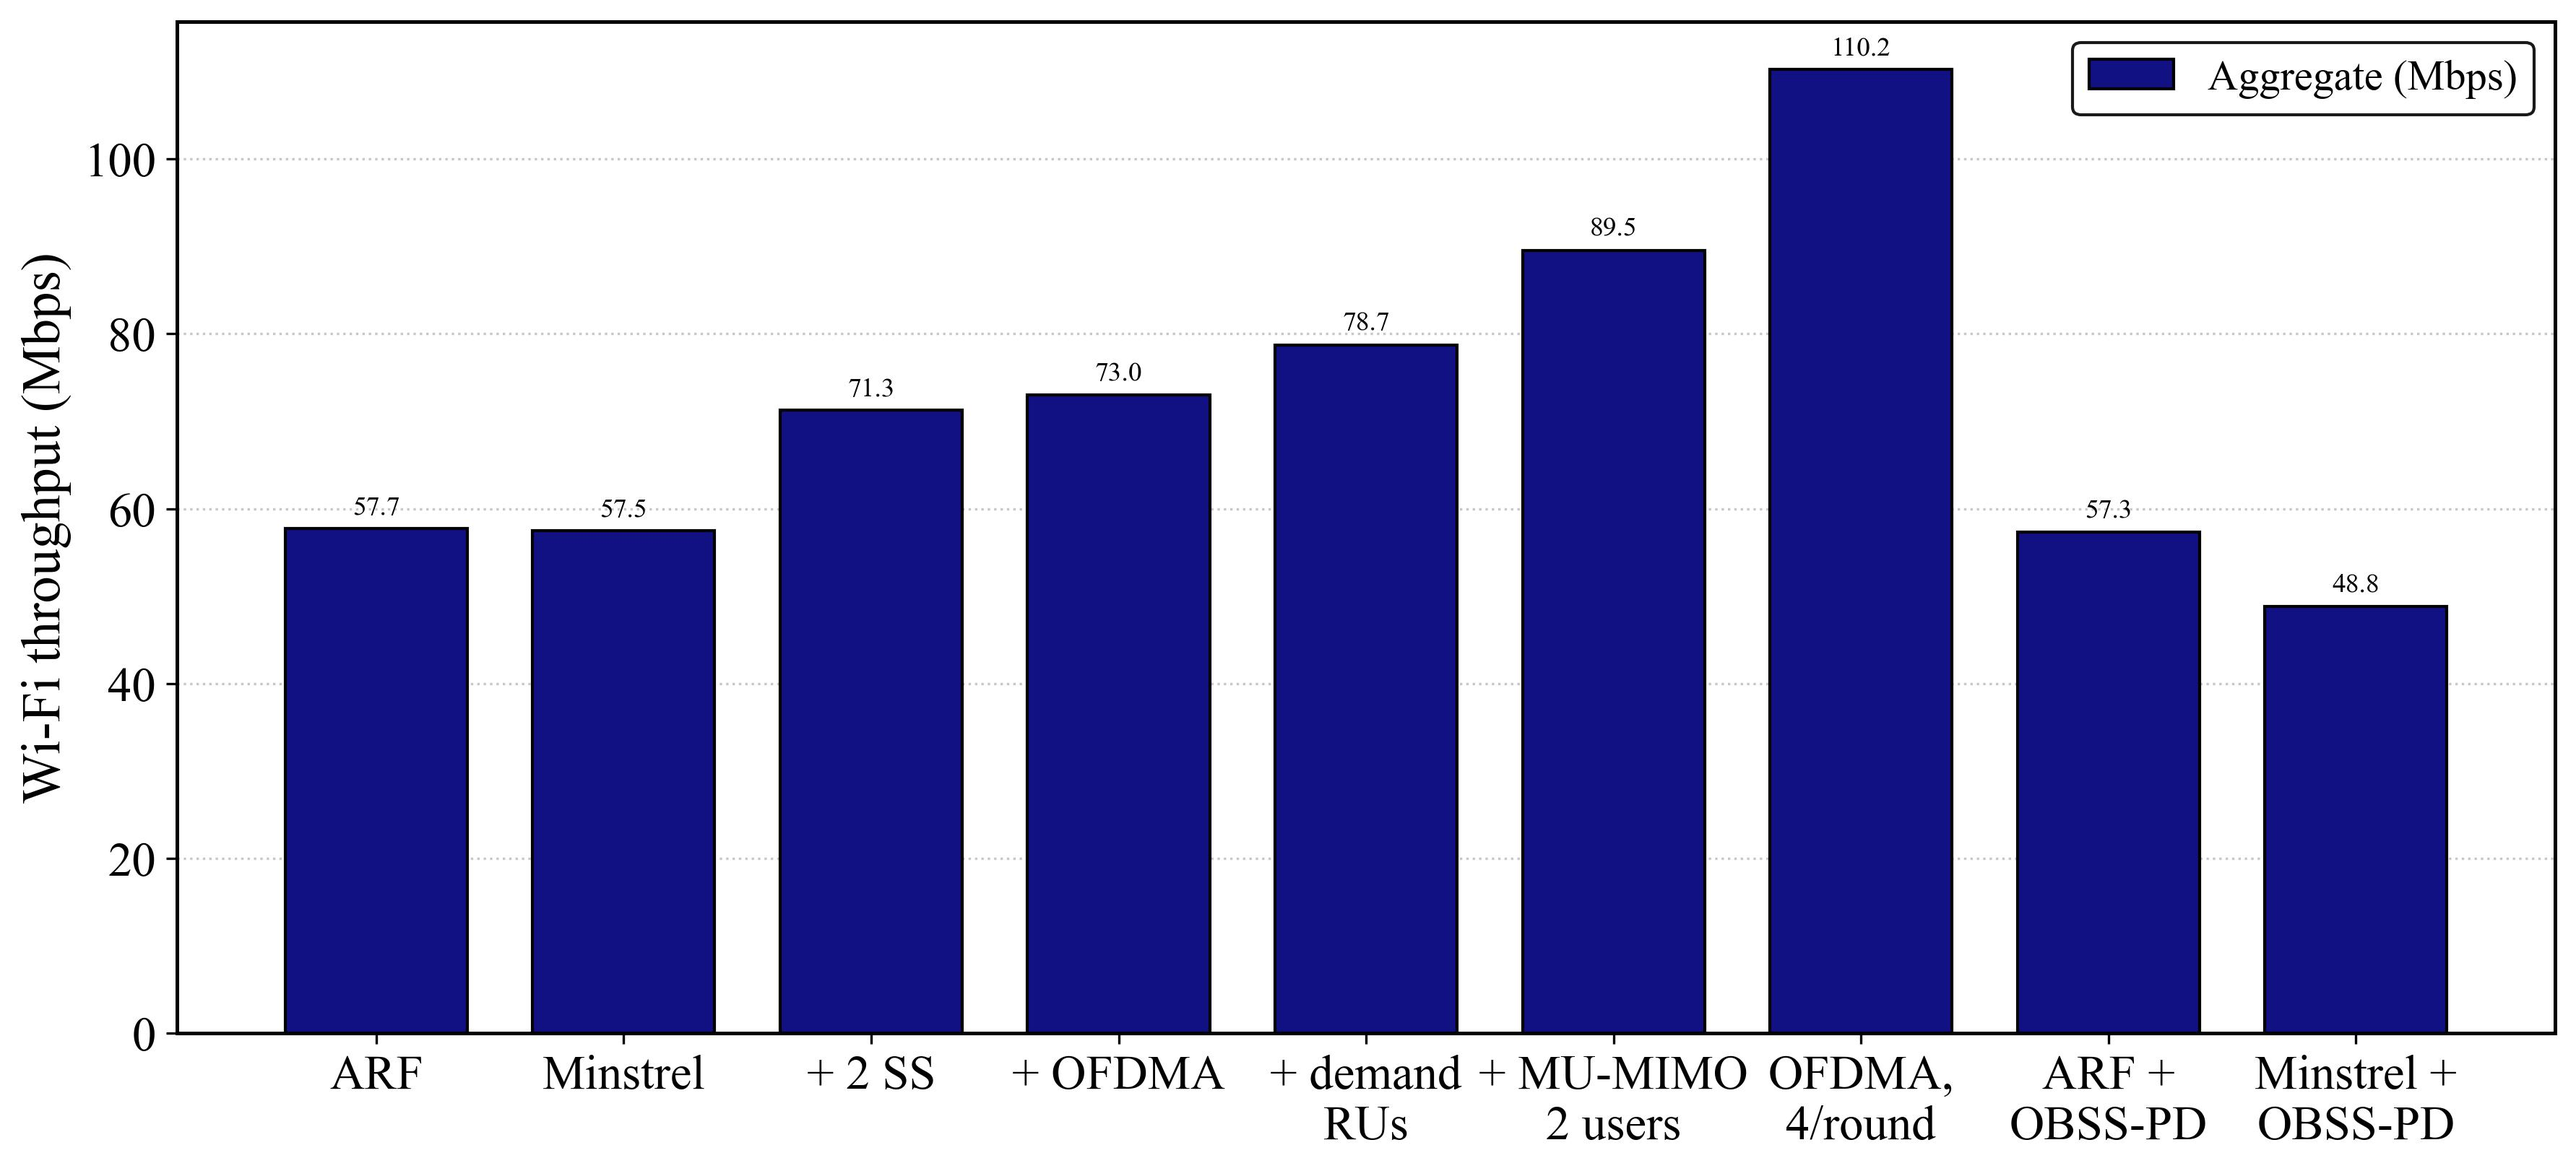
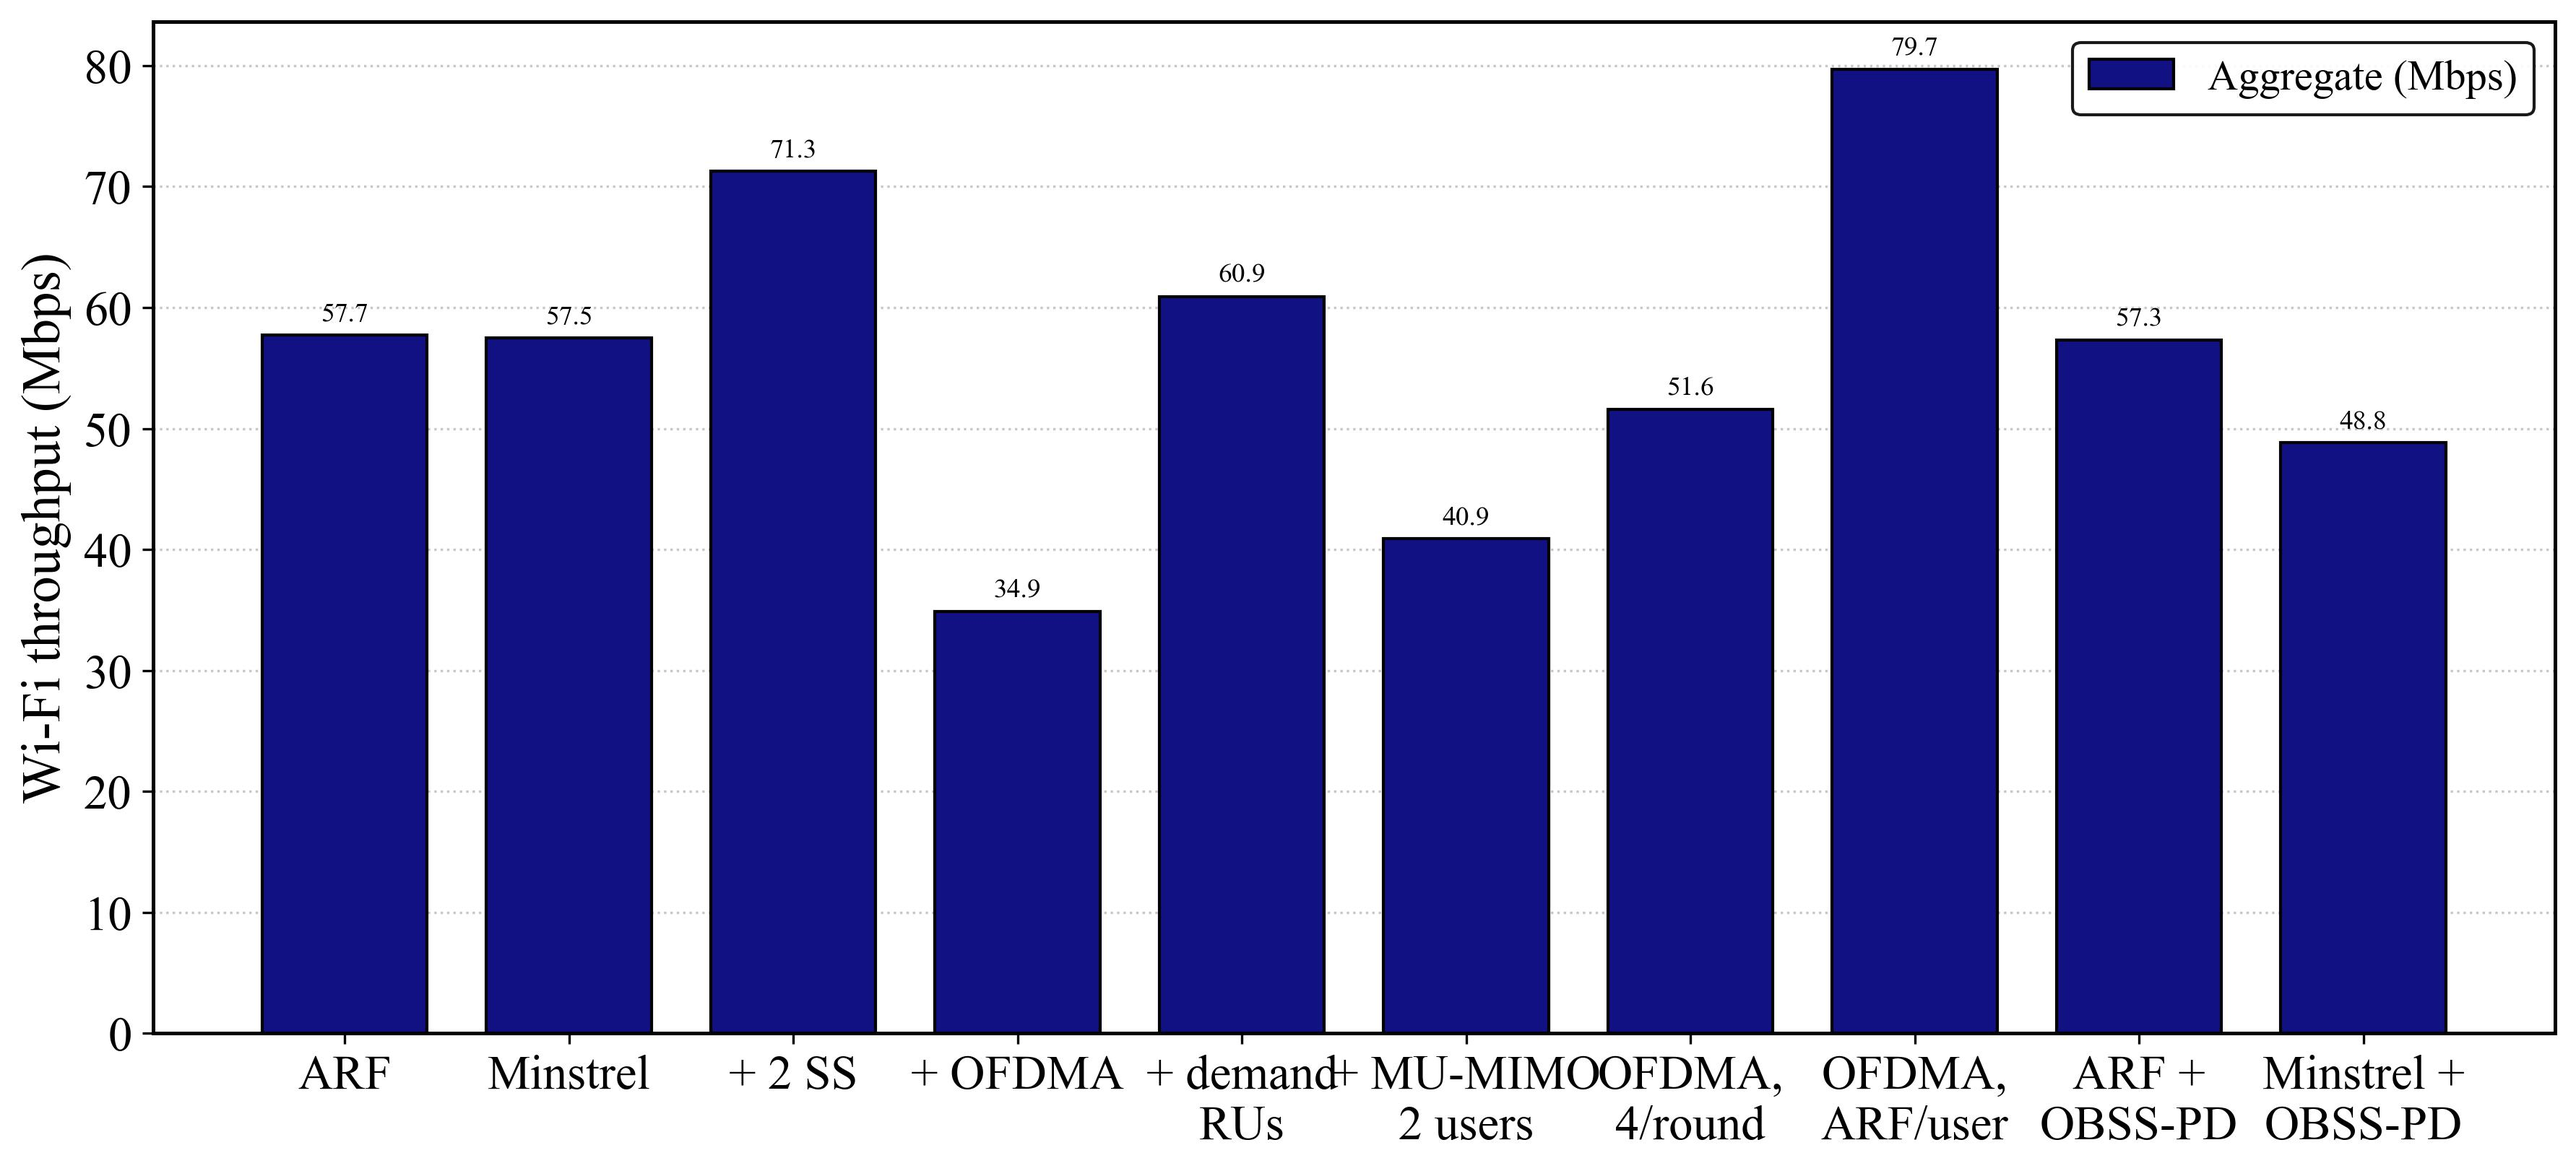
Step 26.D: airtime-based RU plan, OFDMA retry chain, dense ladder rerun
With per-user rates the demand RU plan counts airtime (bytes / the
user's rate), since an OFDMA PPDU lasts as long as its slowest user, and
Minstrel's retry chain for OFDMA users stops at the most reliable usable
MCS. Dense ladder rerun: per-user rates don't lift the 5th-percentile
user there - it is limited by channel access between cells. Defaults
byte-identical.

diff --git a/wifi/ofdma.py b/wifi/ofdma.py
@@ -72,7 +72,7 @@ def user_mcs(ap, sta, floor=None, key=None):  # 26.B: key (default the STA name 
     if not getattr(ap.config, "rate_adapt_enabled", False):
         return ap.config.mcs
     key = sta.name if key is None else key
-    m = ap.current_mcs_for_link(key)
+    m = ap.current_mcs_for_link(key, ofdma=True)   # 26.D: Minstrel's chain without the lowest-rate step
     if floor is not None and m < floor:
         m = floor
         if getattr(ap, "_minstrel", None) is not None:
@@ -243,12 +243,25 @@ def ul_demand(sta) -> float:
     return float(sum(p.payload_bytes for p in list(sta.packet_queue.items) + list(sta.ofdma_ul_pending)))
 
 
-def _plan(cfg, width, users, demand):
+def _plan(cfg, width, users, demand, ap=None, key=None):  # 26.D: ap / key
     if getattr(cfg, "ofdma_ru_alloc", "equal") == "demand":
-        plan = demand_plan(width, [demand(s) for s in users])
+        d = [demand(s) for s in users]
+        # Rashed-Step 26.D-11-03-2026-start: with per-user rates, demand in airtime
+        # (bytes / the user's rate per tone at its current MCS) - one PPDU lasts as long
+        # as its slowest user, so a slow user needs the bigger RU, not just a heavy one
+        if ap is not None and getattr(cfg, "rate_adapt_enabled", False):
+            d = [x / tone_rate(cfg, peek_mcs(ap, key(s))) for x, s in zip(d, users)]
+        # Rashed-Step 26.D-11-03-2026-end
+        plan = demand_plan(width, d)
         if plan is not None:
             return plan
     return ru_plan(width, len(users))
+
+
+def tone_rate(cfg, mcs):
+    """Rashed-Step 26.D: data bits per subcarrier per symbol at mcs, all streams."""
+    bpsc, rate = wifi_phy.MODULATION[mcs]
+    return bpsc * rate * wifi_phy.n_ss(cfg)
 # Rashed-Step 25.D-10-20-2026-end
 
 
@@ -364,13 +377,13 @@ def downlink_round(ap, users, ac=None):  # 21.C: ac = the EDCA access category t
     groups = mu_groups(width, len(users), cfg.mu_mimo_users) if getattr(cfg, "mu_mimo_users", 1) > 1 else None
     # Rashed-Step 26.C-11-03-2026-start: with rate adaptation, MU-MIMO only when it beats plain OFDMA
     if groups is not None and getattr(cfg, "rate_adapt_enabled", False):
-        ofdma_plan = _plan(cfg, width, users, lambda s: dl_demand(ap, s, ac))
+        ofdma_plan = _plan(cfg, width, users, lambda s: dl_demand(ap, s, ac), ap, lambda s: s.name)
         if not mu_worth_it(ap, users, groups, ofdma_plan, width, gi, nss):
             groups = None
             ap.ofdma_stats["mu_fallbacks"] = ap.ofdma_stats.get("mu_fallbacks", 0) + 1
     # Rashed-Step 26.C-11-03-2026-end
     if groups is None:
-        plan = _plan(cfg, width, users, lambda s: dl_demand(ap, s, ac))  # 25.D: = ru_plan(width, len(users)) by default
+        plan = _plan(cfg, width, users, lambda s: dl_demand(ap, s, ac), ap, lambda s: s.name)  # 25.D: = ru_plan(width, len(users)) by default; 26.D: airtime
         ks = [1] * len(users)
     else:                                   # MU-MIMO: users of one group share an RU, one stream each
         rus = ru_plan(width, len(groups))
@@ -506,7 +519,7 @@ def uplink_round(ap, users):
     finally:
         ch.unregister_control_tx(t, ch.airtime_control, account_to=ap.name)
     yield env.timeout(wifi_mac.SIFS_US)
-    plan = _plan(cfg, width, users, ul_demand)                   # 25.D: = ru_plan(width, n) by default
+    plan = _plan(cfg, width, users, ul_demand, ap, ul_key)       # 25.D: = ru_plan(width, n) by default; 26.D: airtime
     nss = wifi_phy.n_ss(cfg)                                     # 25.C
     budget = cfg.ampdu_max_ppdu_us - TB_PREAMBLE_US - wifi_phy.ltf_extra_us("he", nss, gi)
     # Rashed-Step 26.B-11-03-2026-start: the MCS the AP asks each STA for (cfg.mcs without rate adaptation)

diff --git a/test/test_ofdma_rate.py b/test/test_ofdma_rate.py
@@ -27,7 +27,7 @@ class _Ap:
     def __init__(self, cfg, per_sta, minstrel=None):
         self.config, self.per_sta, self._minstrel, self.fed = cfg, per_sta, minstrel, []
 
-    def current_mcs_for_link(self, key):
+    def current_mcs_for_link(self, key, ofdma=False):
         return self.per_sta[key]
 
     def rate_adapt_record_result(self, key, ok, measured_sinr_db=None):
@@ -170,3 +170,29 @@ def test_ofdma_report_with_lazy_mu_counters():
     assert r.exit_code == 0, r.output[-600:]
     assert "Wifi OFDMA MU-MIMO groups:" in r.output
 # Rashed-Step 26.C-11-03-2026-end
+
+
+# Rashed-Step 26.D-11-03-2026-start
+def test_ofdma_retry_chain_stops_at_most_reliable():
+    ms = Minstrel({m: 10.0 * (m + 1) for m in range(8)}, 0, seed=7)
+    for u in range(10):                                   # learn: MCS <= 5 decode
+        now = (u + 1) * 100_000.0
+        for _ in range(200):
+            m = ms.choose("A", now)
+            ms.record("A", m <= 5, now)
+    st = ms.links["A"]
+    st["fails"] = 3
+    assert ms.choose("A", 2e6, chain_lowest=False) == st["maxp"] != 0      # OFDMA: no lowest-rate step
+    ms.override("A", st["pending"]); st["pending"] = None
+    assert ms.choose("A", 2e6) == 0                                         # single-user: lowest, as 25.E
+
+
+def test_demand_plan_in_airtime_with_rate_adaptation():
+    users = [_Sta(n) for n in "ABC"]
+    cfg = Config(phy="he", ofdma=True, ofdma_ru_alloc="demand", rate_adapt_enabled=True, mcs=7)
+    ap = _ArfAp(cfg, {"A": {"mcs": 1}, "B": {"mcs": 9}, "C": {"mcs": 9}})   # A is slow
+    plan = ofdma._plan(cfg, 20, users, lambda s: 1.0, ap, lambda s: s.name)
+    assert plan[0][0] == 106 and plan[1][0] == plan[2][0] == 52             # the slow user gets the big RU
+    off = Config(phy="he", ofdma=True, ofdma_ru_alloc="demand", mcs=7)      # no rate adaptation: bytes only
+    assert ofdma._plan(off, 20, users, lambda s: 1.0, _ArfAp(off, {}), lambda s: s.name) == ofdma.demand_plan(20, [1.0] * 3)
+# Rashed-Step 26.D-11-03-2026-end

diff --git a/wifi/minstrel.py b/wifi/minstrel.py
@@ -82,13 +82,21 @@ class Minstrel:
             st["maxp"] = max(st["prob"], key=lambda m: (st["prob"][m], self.rates[m]))
         # Rashed-Step 25.E-10-20-2026-end
 
-    def choose(self, key: str, now: float) -> int:
+    def choose(self, key: str, now: float, chain_lowest: bool = True) -> int:
+        """chain_lowest=False (Rashed-Step 26.D, OFDMA users): the retry
+        chain stops at the most reliable MCS if that one is usable (p >=
+        MIN_PROB) - in an OFDMA PPDU the lowest rate would stretch the
+        shared PPDU for every user; with no usable MCS still the lowest
+        (else a link failing everywhere would never get out of the chain)."""
         st = self._link(key)
         if st["pending"] is None:
             self._update(st, now)
             # Rashed-Step 25.E-10-20-2026: retry chain after failures (no look-around then)
             if st["fails"] > 0:
-                chain = (st["second"], st["maxp"], min(self.rates, key=lambda m: self.rates[m]))
+                lowest = min(self.rates, key=lambda m: self.rates[m])
+                usable = st["prob"].get(st["maxp"], 0.0) >= MIN_PROB
+                last = st["maxp"] if (not chain_lowest and usable) else lowest  # 26.D
+                chain = (st["second"], st["maxp"], last)
                 st["pending"] = chain[min(st["fails"], 3) - 1]
                 return st["pending"]
             mcs = st["best"]

diff --git a/analysis/dense_wifi_study.py b/analysis/dense_wifi_study.py
@@ -57,6 +57,8 @@ LADDER = [
                            "--wifi-mu-mimo-users", "2", "--wifi-ofdma-max-users", "4"]),
     ("OFDMA, 4 users/round", MIN + ["--wifi-spatial-streams", "2", "--wifi-ofdma", "--wifi-ofdma-ru-alloc", "demand",
                                     "--wifi-ofdma-max-users", "4"]),
+    # Rashed-Step 26.D-11-03-2026: since Step 26 the OFDMA rows run per-user rates (Minstrel); the same with ARF
+    ("OFDMA, ARF per user", RA + ["--wifi-spatial-streams", "2", "--wifi-ofdma", "--wifi-ofdma-ru-alloc", "demand"]),
     ("ARF + OBSS-PD", RA + ["--wifi-obss-pd-dbm", "-72"]),
     ("Minstrel + OBSS-PD", MIN + ["--wifi-obss-pd-dbm", "-72"]),
 ]
@@ -121,6 +123,7 @@ def study_ladder():
               "+ demand RUs": "+ demand\nRUs",
               "+ MU-MIMO 2": "+ MU-MIMO\n2 users",
               "OFDMA, 4 users/round": "OFDMA,\n4/round",
+              "OFDMA, ARF per user": "OFDMA,\nARF/user",
               "ARF + OBSS-PD": "ARF +\nOBSS-PD",
               "Minstrel + OBSS-PD": "Minstrel +\nOBSS-PD"}
     names = [short.get(r["case"], r["case"]) for r in rows]

diff --git a/wifi/wifi.py b/wifi/wifi.py
@@ -1837,7 +1837,7 @@ class WiFi:
         return self.sta_list[0] if self.sta_list else None
 
     # Rashed-Step 20.D-10-08-2026-end
-    def current_mcs_for_link(self, link_key: Optional[str]) -> int:
+    def current_mcs_for_link(self, link_key: Optional[str], ofdma: bool = False) -> int:  # 26.D: ofdma
         """
         The MCS to use RIGHT NOW for `link_key`. Returns config.mcs
         unchanged when rate adaptation is disabled, the link has no
@@ -1871,7 +1871,7 @@ class WiFi:
         if not self.config.rate_adapt_enabled or link_key is None:
             return self.config.mcs
         if self._minstrel is not None:  # Rashed-Step 25.B-10-20-2026
-            return self._minstrel.choose(link_key, self.env.now)
+            return self._minstrel.choose(link_key, self.env.now, chain_lowest=not ofdma)  # 26.D
         state = self.link_rate_state.get(link_key)
         # Rashed-Step 13.E.1-08-23-2026-start
         predictor = self.config.sinr_predictor

diff --git a/readme.md b/readme.md
@@ -325,7 +325,7 @@ Is NR-U fair to Wi-Fi, and what fixes it? Scored with the 3GPP replacement test 
 | Minstrel rate adaptation (25.B) | `--wifi-rate-adapt --wifi-rate-algo minstrel` | Per link and MCS an EWMA success probability (updated every 100 ms), the MCS with the best expected throughput (rate x probability), 10 % of transmissions probe an MCS that could beat it, retries go down a chain (second best, most reliable, lowest; 25.E). Unlike ARF (the default), collisions don't walk the MCS down step by step |
 | Spatial streams / DL MU-MIMO (25.C) | `--wifi-spatial-streams N`, `--wifi-mu-mimo-users K`, `--wifi-mu-mimo-residual-db` | N streams (1-4, HT/VHT/HE): N x rate, each stream at link SINR - 10 log10(N), one LTF per stream. MU-MIMO (needs `--wifi-ofdma`, K <= N): up to K STAs share each RU of >= 106 tones, one stream each, RU power split; each user keeps the residual (default -30 dB) of every other user's stream as interference |
 | Demand-based OFDMA RU plan (25.D) | `--wifi-ofdma-ru-alloc demand` | Mixed RU sizes along the 802.11ax RU tree (996 -> 484 -> 242 -> 106 -> 52 -> 26): the channel is split by each user's queued bytes, so a heavy user gets a large RU alone and light users share smaller ones; no unused tones for user counts that aren't a power of two. Downlink and uplink; equal plan with MU-MIMO groups or more users than the tree holds |
-| OFDMA per-user rate adaptation (26.A-C) | `--wifi-ofdma --wifi-rate-adapt` (+ `--wifi-rate-algo`) | Each downlink OFDMA user gets its own MCS from the AP's ARF / Minstrel state for that STA (one result per user per PPDU, as single-user A-MPDUs), raised if needed to the lowest MCS that fits one MPDU on its RU; uplink OFDMA (26.B): the AP picks each triggered STA's MCS from a separate per-STA uplink state fed by what it receives. MU-MIMO (26.C): MU users have their own rate state, and each round the AP uses MU-MIMO only if its estimated sum rate beats plain OFDMA (every 10th round MU-MIMO anyway, so it keeps learning); the OFDMA block prints MU groups / fallbacks. Before, OFDMA ignored `--wifi-rate-adapt` and used `-m` for everyone |
+| OFDMA per-user rate adaptation (26.A-D) | `--wifi-ofdma --wifi-rate-adapt` (+ `--wifi-rate-algo`) | Each downlink OFDMA user gets its own MCS from the AP's ARF / Minstrel state for that STA (one result per user per PPDU, as single-user A-MPDUs), raised if needed to the lowest MCS that fits one MPDU on its RU; uplink OFDMA (26.B): the AP picks each triggered STA's MCS from a separate per-STA uplink state fed by what it receives. MU-MIMO (26.C): MU users have their own rate state, and each round the AP uses MU-MIMO only if its estimated sum rate beats plain OFDMA (every 10th round MU-MIMO anyway, so it keeps learning); the OFDMA block prints MU groups / fallbacks. 26.D: with per-user rates the demand RU plan counts airtime (bytes / the user's rate), since an OFDMA PPDU lasts as long as its slowest user, and Minstrel's retry chain for OFDMA users stops at the most reliable usable MCS. In the dense TGax building per-user rates do not lift the 5th-percentile user: it is limited by channel access between cells (rate anomaly), not MCS (`analysis/dense_wifi_study.py`, Project details/Step 26.txt). Before, OFDMA ignored `--wifi-rate-adapt` and used `-m` for everyone |
 | Reference-slot feedback | `--nru-ref-nack-threshold`, `--nru-adaptive-cot` | contention window grows when this share of the reference slot's blocks fail (TS 37.213 Z, default 0.8); adaptive COT halves the next COT after a failed reference slot |
 
 Findings in short: the unfairness is a sensing problem - between about 32 and 45 m neither side hears the other by energy detection while NR-U still breaks Wi-Fi frames (network A latency 75.6 vs 7.5 ms next to Wi-Fi). Priority classes, the standard 37.213 threshold and reference-slot feedback don't fix it (feedback can't see it at all: NR-U's own reference slots never fail there). A lower NR-U threshold (-82 dBm, non-standard) plus CTS-to-self passes the replacement test at every distance up to 60 m with ~0 Wi-Fi frame failures.
@@ -386,7 +386,7 @@ Assert-based regression suite (no print-and-eyeball scripts for anything added s
 pip install pytest
 pytest test/
 ```
-720 tests passing as of Step 26.C. Most files are also runnable directly (`python test/test_phy_unit.py`, etc.) without pytest installed.
+722 tests passing as of Step 26.D. Most files are also runnable directly (`python test/test_phy_unit.py`, etc.) without pytest installed.
 
 ## Current Work Status
 
